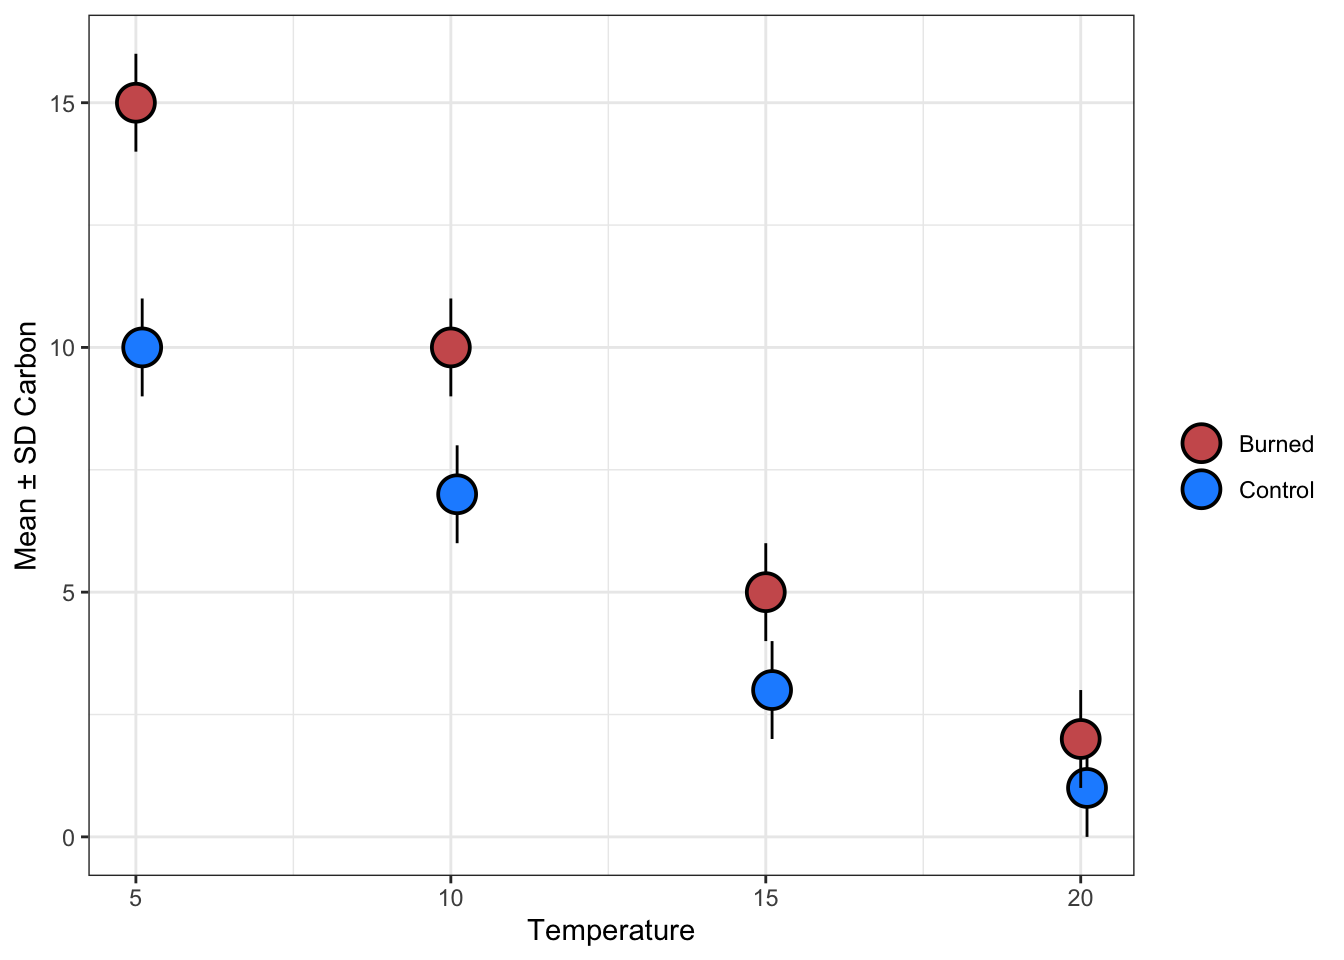
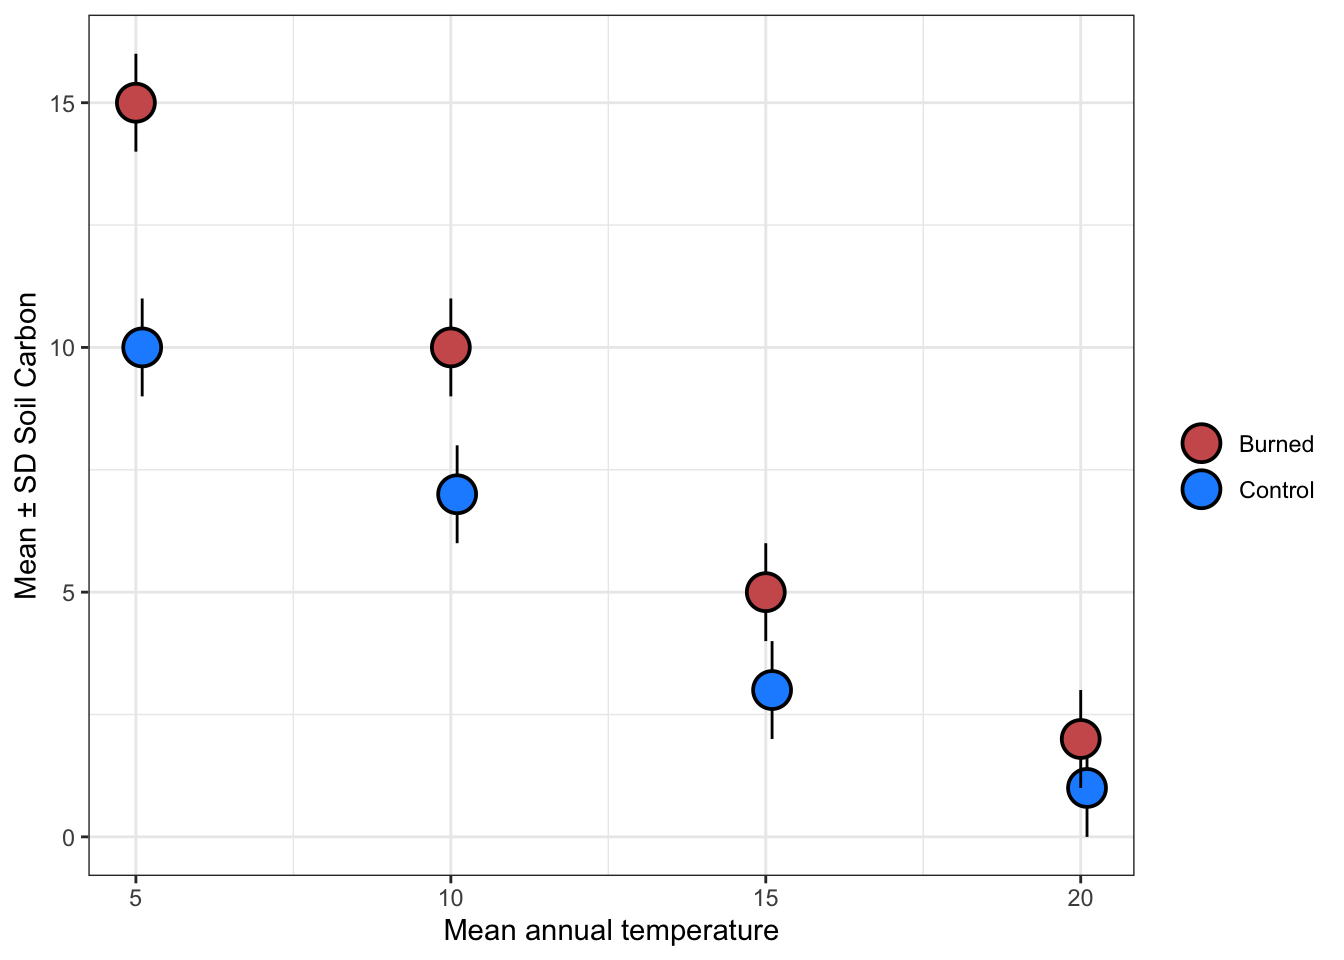
update

Changed region(s): [[0.3438, 0.9375, 0.5625, 1.0], [0.0, 0.3125, 0.0312, 0.625]]

diff --git a/docs/2.1-SMD-assumptions.html b/docs/2.1-SMD-assumptions.html
@@ -4,7 +4,7 @@
 <meta charset="utf-8">
 <meta name="generator" content="quarto-1.9.38">
 <meta name="viewport" content="width=device-width, initial-scale=1.0, user-scalable=yes">
-<meta name="dcterms.date" content="2026-09-30">
+<meta name="dcterms.date" content="2026-10-01">
 <title>Continuous outcomes between two groups – A user’s guide to effect sizes</title>
 <style>
 /* Default styles provided by pandoc.
@@ -411,7 +411,7 @@ window.Quarto = {
     <div>
     <div class="quarto-title-meta-heading">Published</div>
     <div class="quarto-title-meta-contents">
-      <p class="date">September 30, 2026</p>
+      <p class="date">October 1, 2026</p>
     </div>
   </div>
   
@@ -574,7 +574,7 @@ sd  &amp;= SE\sqrt{n},
 </div>
 </div>
 </div>
-<p>This seems to match what we see in the raw data—the difference between the treatment and control groups gets smaller as temperature increases. If we were to fit a model on these 4 points, we’d find a negative temperature coefficient. This would suggest to policymakers that controlled burns are a way to enhance soil carbon in warmer climates and have little effect in cooler climates.</p>
+<p>This seems to match what we see in the raw data—the difference between the treatment and control groups gets smaller as temperature increases. If we were to fit a model on these 4 points, we’d find a negative temperature coefficient. This would suggest to policymakers that controlled burns are a way to enhance soil carbon in <em>cooler</em> climates and have less effect in <em>warmer</em> climates.</p>
 <p>But what happens if we use lnRoM as our estimand?</p>
 <div class="cell">
 <div class="cell-output-display">
@@ -584,11 +584,11 @@ sd  &amp;= SE\sqrt{n},
 </div>
 </div>
 </div>
-<p>Wowza! Look at that! A complete reversal of the relationship with the moderator! Maybe policymakers should do more controlled burns at lower temperatures??</p>
+<p>Wowza! Look at that! A complete reversal of the relationship with the moderator! Maybe policymakers should do more controlled burns in warmer climates??</p>
 <p>But also…How the hell did that happen?</p>
 <p>This happened because lnRoM describes the <strong>relative</strong> difference between groups—on a multiplicative scale. A small difference between groups near 0 produces a much stronger effect size than a bigger absolute difference for groups further from 0. We discuss this further <a href="#sec-near-zero-values">below.</a>.</p>
 <p>As you can imagine, the implications of overlooking these differences can lead to considerable problems. Meta-analyses commonly make policy recommendations that could be completely wrong because they used the wrong <strong>estimand</strong> for the job.</p>
-<p>Now we’ll dive a little deeper into the mathematics of these two estimands to pave the way to understand how to interpret them and to understand their mathematical assumptions.</p>
+<p>Now we’ll dive a little deeper into the mathematics of these two estimands, their interpretation, and their mathematical assumptions</p>
 </section></section><section id="running-biological-example" class="level1"><h1>Running biological example</h1>
 <p>We’ll walk you through the use and interpretation of these effect sizes with a running biological example. Imagine a warming experiment that measures plant biomass after one growing season:</p>
 <table class="caption-top table">
@@ -2054,8 +2054,8 @@ Nakagawa, S., D. W. A. Noble, M. Lagisz, R. Spake, W. Viechtbauer, and A. M. Sen
 <span id="cb30-199"><a href="#cb30-199" aria-hidden="true" tabindex="-1"></a>                  <span class="at">shape =</span> <span class="dv">21</span>, <span class="at">size =</span> <span class="fl">1.5</span>)<span class="sc">+</span></span>
 <span id="cb30-200"><a href="#cb30-200" aria-hidden="true" tabindex="-1"></a>  <span class="fu">scale_fill_manual</span>(<span class="st">""</span>, <span class="at">values =</span> <span class="fu">c</span>(<span class="st">"indianred"</span>, <span class="st">"dodgerblue"</span>))<span class="sc">+</span></span>
 <span id="cb30-201"><a href="#cb30-201" aria-hidden="true" tabindex="-1"></a>  <span class="fu">theme_bw</span>()<span class="sc">+</span></span>
-<span id="cb30-202"><a href="#cb30-202" aria-hidden="true" tabindex="-1"></a>  <span class="fu">xlab</span>(<span class="st">"Temperature"</span>)<span class="sc">+</span></span>
-<span id="cb30-203"><a href="#cb30-203" aria-hidden="true" tabindex="-1"></a>  <span class="fu">ylab</span>(<span class="st">"Mean ± SD Carbon"</span>)</span>
+<span id="cb30-202"><a href="#cb30-202" aria-hidden="true" tabindex="-1"></a>  <span class="fu">xlab</span>(<span class="st">"Mean annual temperature"</span>)<span class="sc">+</span></span>
+<span id="cb30-203"><a href="#cb30-203" aria-hidden="true" tabindex="-1"></a>  <span class="fu">ylab</span>(<span class="st">"Mean ± SD Soil Carbon"</span>)</span>
 <span id="cb30-204"><a href="#cb30-204" aria-hidden="true" tabindex="-1"></a></span>
 <span id="cb30-205"><a href="#cb30-205" aria-hidden="true" tabindex="-1"></a><span class="in">```</span></span>
 <span id="cb30-206"><a href="#cb30-206" aria-hidden="true" tabindex="-1"></a></span>
@@ -2082,7 +2082,7 @@ Nakagawa, S., D. W. A. Noble, M. Lagisz, R. Spake, W. Viechtbauer, and A. M. Sen
 <span id="cb30-229"><a href="#cb30-229" aria-hidden="true" tabindex="-1"></a></span>
 <span id="cb30-230"><a href="#cb30-230" aria-hidden="true" tabindex="-1"></a><span class="in">```</span></span>
 <span id="cb30-231"><a href="#cb30-231" aria-hidden="true" tabindex="-1"></a></span>
-<span id="cb30-232"><a href="#cb30-232" aria-hidden="true" tabindex="-1"></a>This seems to match what we see in the raw data---the difference between the treatment and control groups gets smaller as temperature increases. If we were to fit a model on these 4 points, we'd find a negative temperature coefficient. This would suggest to policymakers that controlled burns are a way to enhance soil carbon in warmer climates and have little effect in cooler climates.</span>
+<span id="cb30-232"><a href="#cb30-232" aria-hidden="true" tabindex="-1"></a>This seems to match what we see in the raw data---the difference between the treatment and control groups gets smaller as temperature increases. If we were to fit a model on these 4 points, we'd find a negative temperature coefficient. This would suggest to policymakers that controlled burns are a way to enhance soil carbon in *cooler* climates and have less effect in *warmer* climates.</span>
 <span id="cb30-233"><a href="#cb30-233" aria-hidden="true" tabindex="-1"></a></span>
 <span id="cb30-234"><a href="#cb30-234" aria-hidden="true" tabindex="-1"></a>But what happens if we use lnRoM as our estimand?</span>
 <span id="cb30-235"><a href="#cb30-235" aria-hidden="true" tabindex="-1"></a></span>
@@ -2104,7 +2104,7 @@ Nakagawa, S., D. W. A. Noble, M. Lagisz, R. Spake, W. Viechtbauer, and A. M. Sen
 <span id="cb30-253"><a href="#cb30-253" aria-hidden="true" tabindex="-1"></a>  <span class="fu">ggtitle</span>(<span class="st">"lnRoM: Relative difference between groups, regardless of variation"</span>)</span>
 <span id="cb30-254"><a href="#cb30-254" aria-hidden="true" tabindex="-1"></a></span>
 <span id="cb30-255"><a href="#cb30-255" aria-hidden="true" tabindex="-1"></a><span class="in">```</span></span>
-<span id="cb30-256"><a href="#cb30-256" aria-hidden="true" tabindex="-1"></a>Wowza! Look at that! A complete reversal of the relationship with the moderator! Maybe policymakers should do more controlled burns at lower temperatures?? </span>
+<span id="cb30-256"><a href="#cb30-256" aria-hidden="true" tabindex="-1"></a>Wowza! Look at that! A complete reversal of the relationship with the moderator! Maybe policymakers should do more controlled burns in warmer climates?? </span>
 <span id="cb30-257"><a href="#cb30-257" aria-hidden="true" tabindex="-1"></a></span>
 <span id="cb30-258"><a href="#cb30-258" aria-hidden="true" tabindex="-1"></a>But also...How the hell did that happen?</span>
 <span id="cb30-259"><a href="#cb30-259" aria-hidden="true" tabindex="-1"></a></span>
@@ -2112,7 +2112,7 @@ Nakagawa, S., D. W. A. Noble, M. Lagisz, R. Spake, W. Viechtbauer, and A. M. Sen
 <span id="cb30-261"><a href="#cb30-261" aria-hidden="true" tabindex="-1"></a></span>
 <span id="cb30-262"><a href="#cb30-262" aria-hidden="true" tabindex="-1"></a>As you can imagine, the implications of overlooking these differences can lead to considerable problems. Meta-analyses commonly make policy recommendations that could be completely wrong because they used the wrong **estimand** for the job. </span>
 <span id="cb30-263"><a href="#cb30-263" aria-hidden="true" tabindex="-1"></a></span>
-<span id="cb30-264"><a href="#cb30-264" aria-hidden="true" tabindex="-1"></a>Now we'll dive a little deeper into the mathematics of these two estimands to pave the way to understand how to interpret them and to understand their mathematical assumptions. </span>
+<span id="cb30-264"><a href="#cb30-264" aria-hidden="true" tabindex="-1"></a>Now we'll dive a little deeper into the mathematics of these two estimands, their interpretation, and their mathematical assumptions</span>
 <span id="cb30-265"><a href="#cb30-265" aria-hidden="true" tabindex="-1"></a></span>
 <span id="cb30-266"><a href="#cb30-266" aria-hidden="true" tabindex="-1"></a><span class="fu"># Running biological example</span></span>
 <span id="cb30-267"><a href="#cb30-267" aria-hidden="true" tabindex="-1"></a>  </span>
